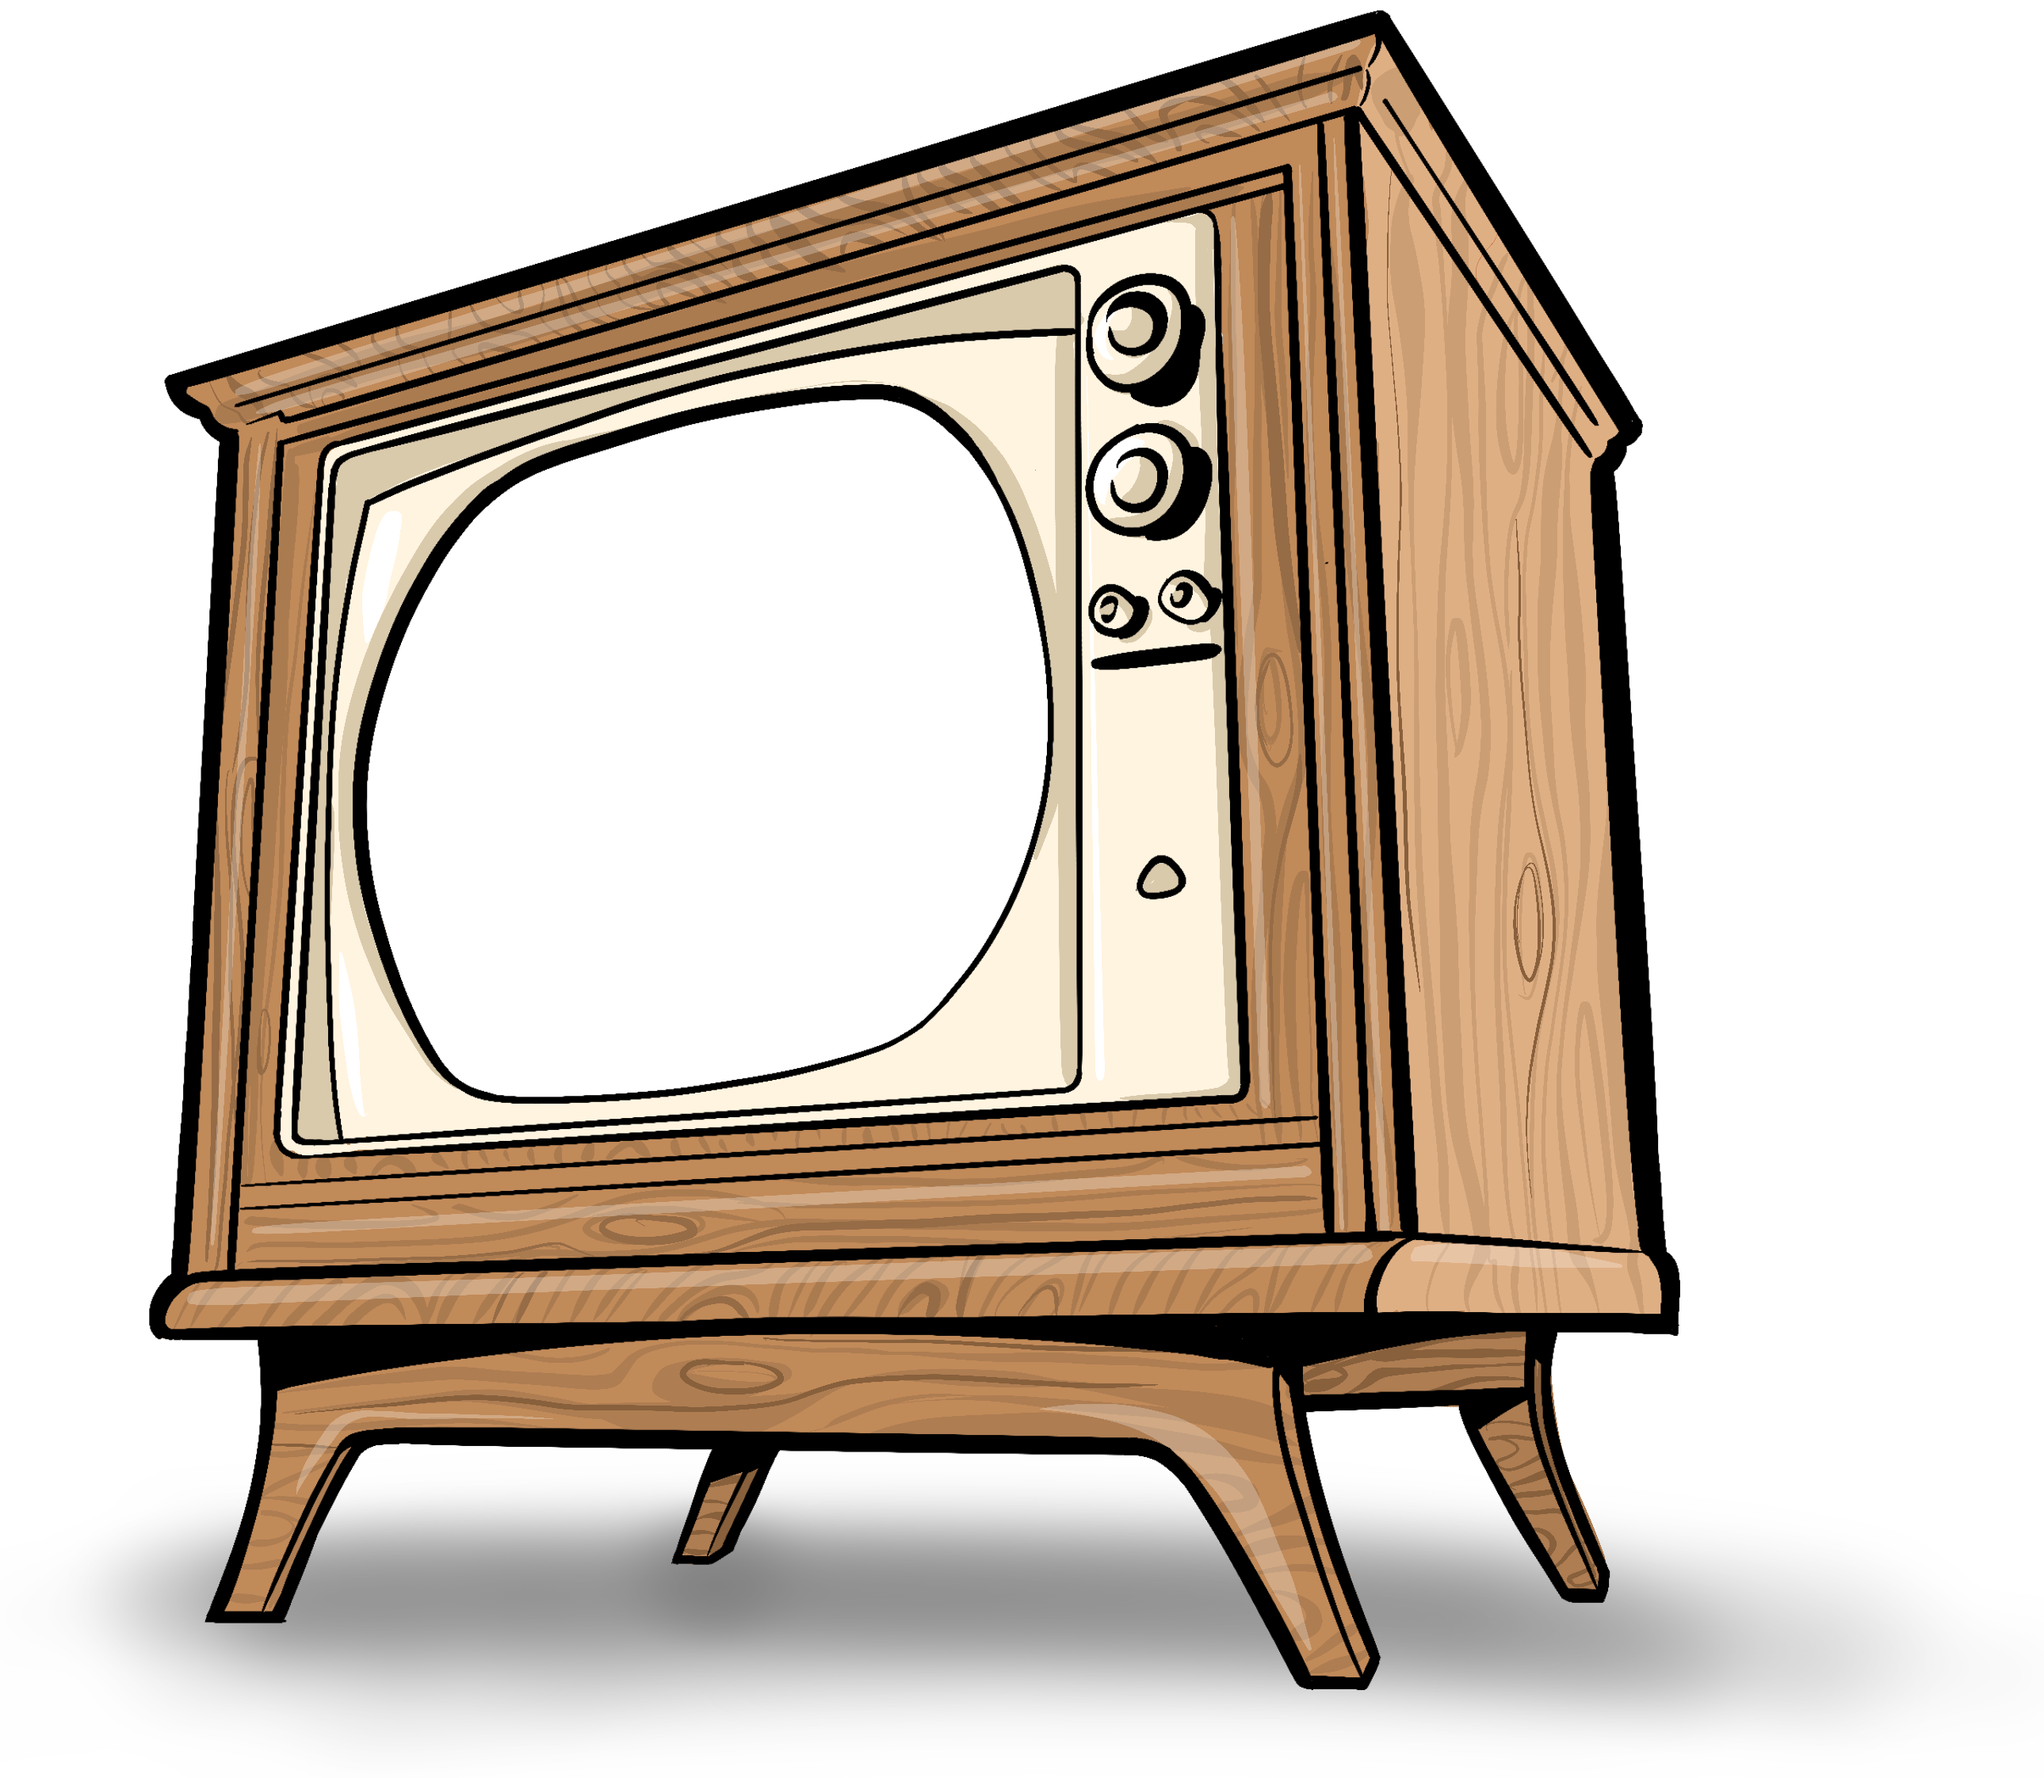
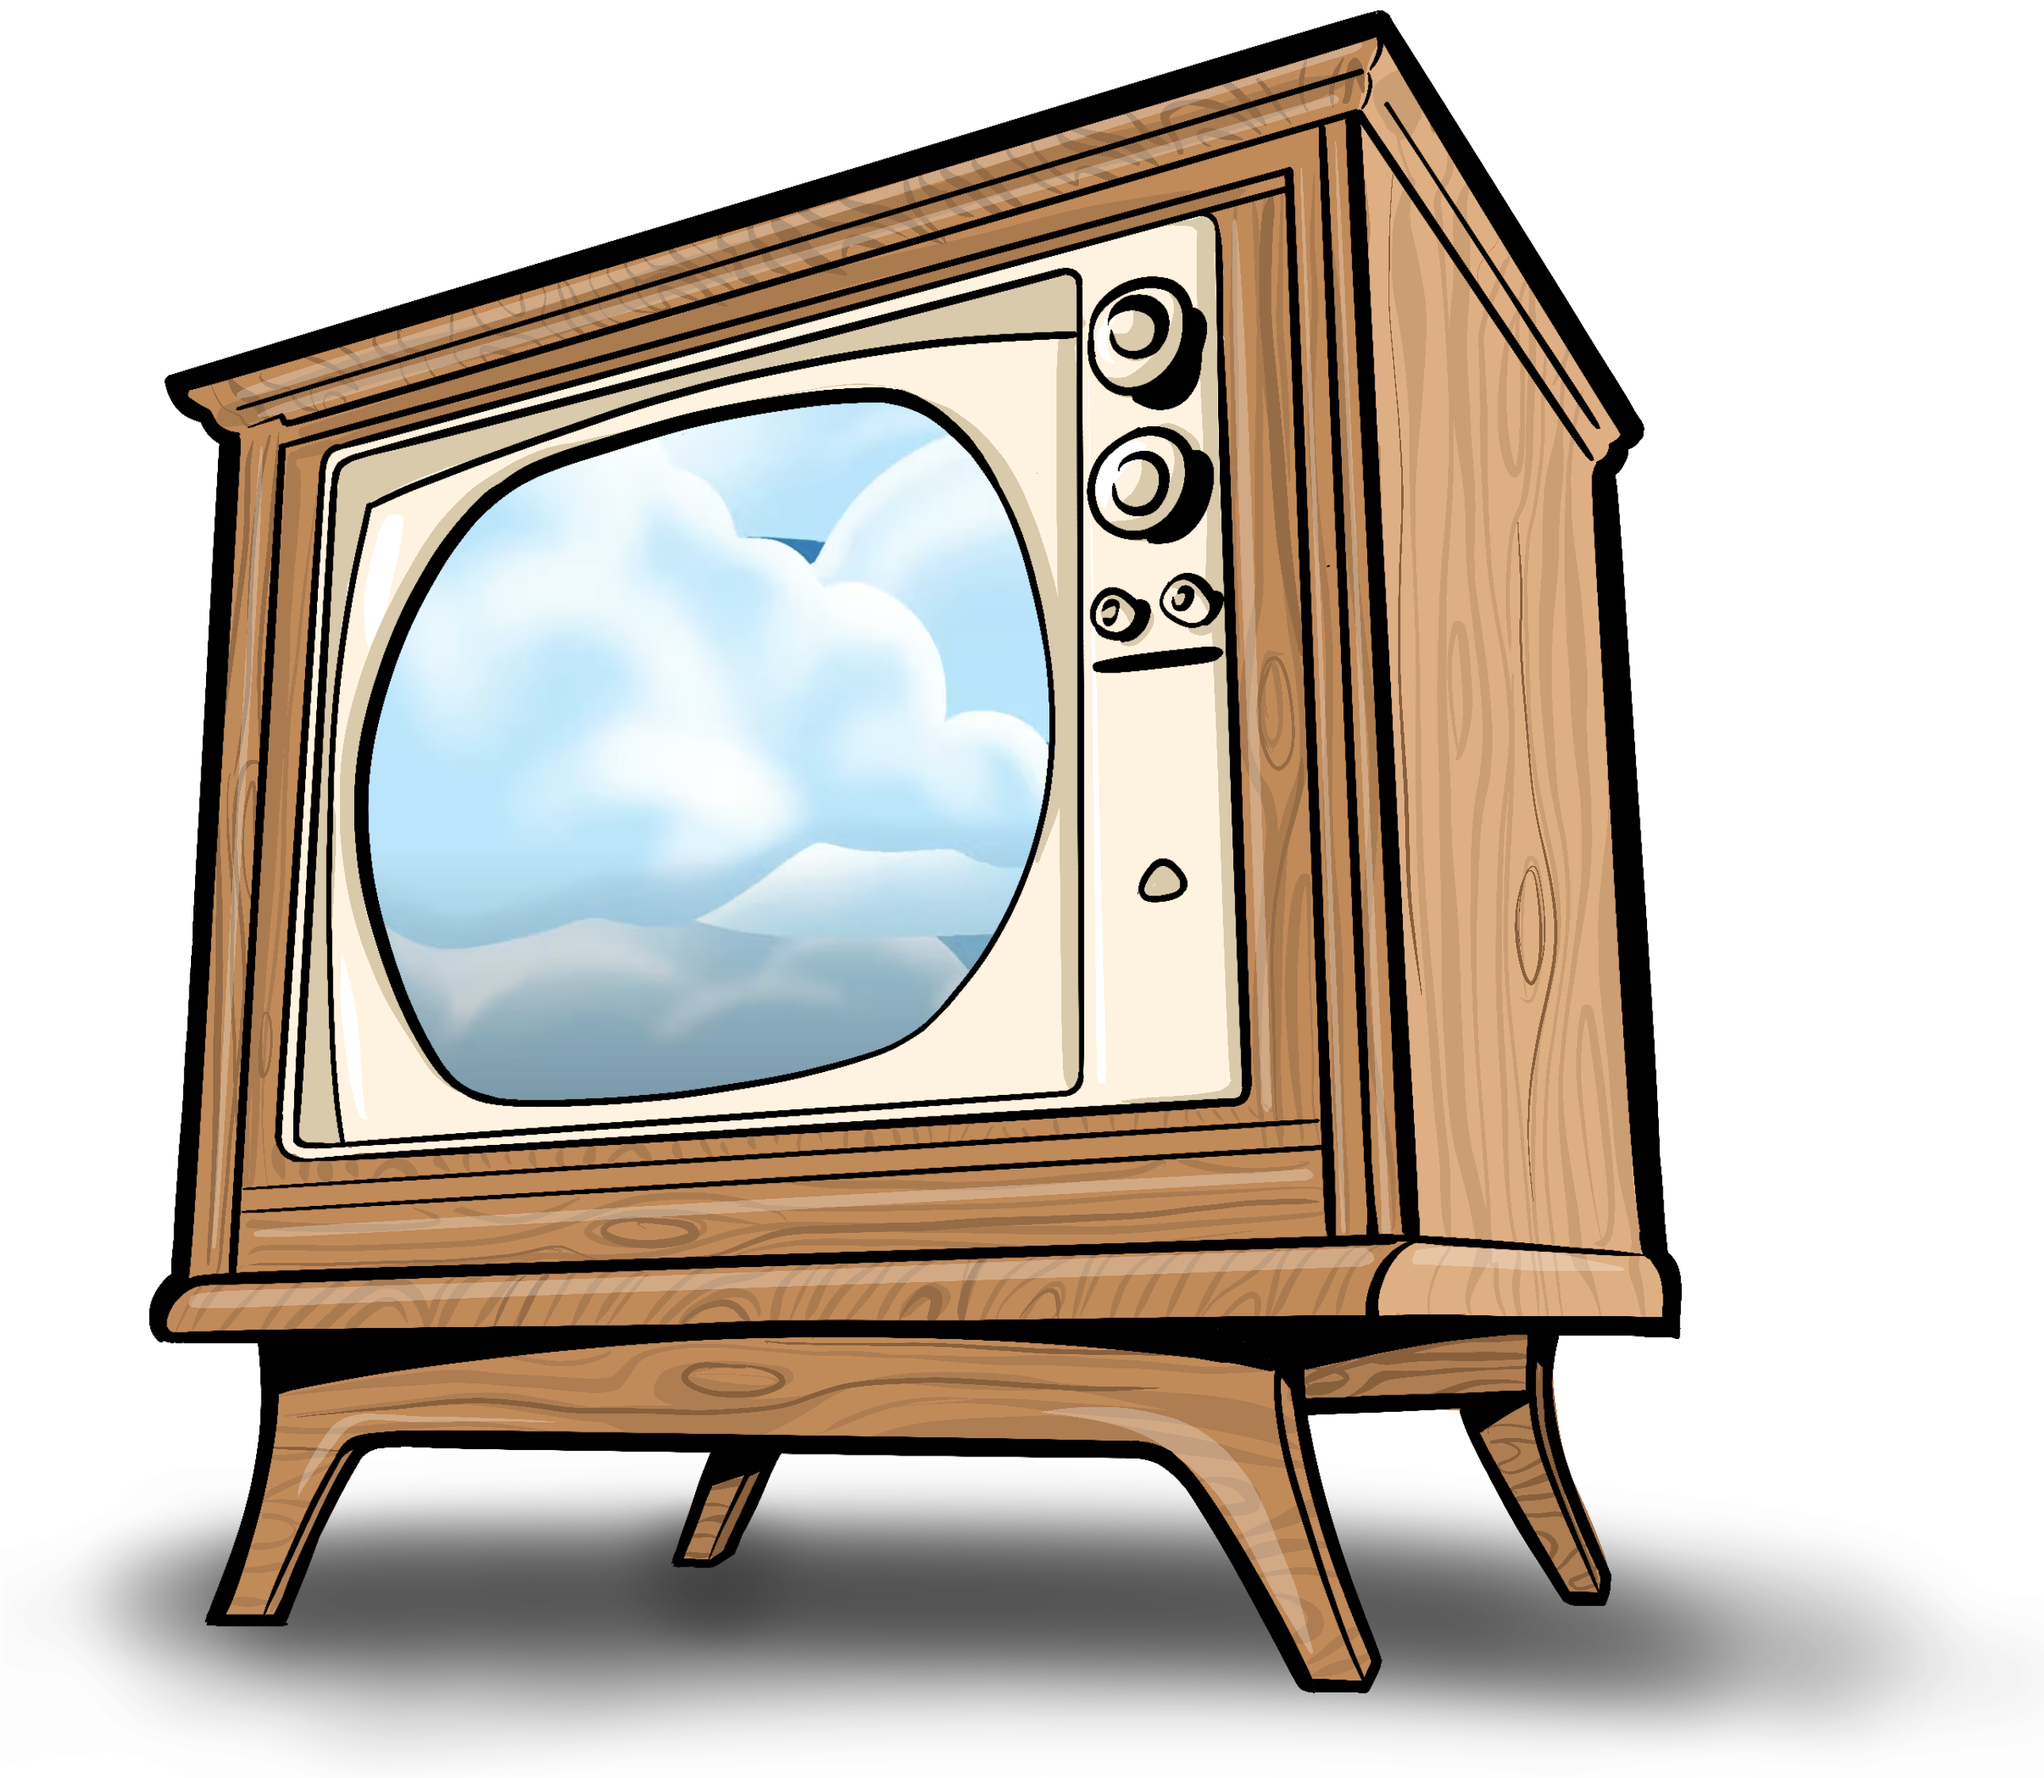
Final coming soon.

Changed region(s): [[0.062, 0.0, 0.9306, 0.967], [0.7445, 0.4991, 0.7755, 0.5615], [0.7755, 0.2496, 0.8065, 0.2807]]

diff --git a/index_video.html b/index_video.html
@@ -1,0 +1,31 @@
+<!DOCTYPE html>
+<html lang="en">
+<head>
+    <meta charset="utf-8">
+    <meta name="viewport" content="width=device-width, initial-scale=1">
+    <title>Come In and Find Out</title>
+    <link rel="stylesheet" href="style/style.css">
+</head>
+<body>
+<div class="vertical">
+    <img src="img/title.png" width="280px" alt="Come In and Find Out"/>
+    <br/>
+    <br/>
+    <iframe
+            width="640"
+            height="480"
+            src="https://www.youtube.com/embed/F9GDpILySfY?si=ltYjCxLlVIaHGv1W&autoplay=1&mute=1&rel=0"
+            allow="autoplay; encrypted-media">
+    </iframe>
+</div>
+<br/>
+<br/>
+<br/>
+<div class="horizontal">
+    <a href="index.html">
+        <img src="img/remote_green.png" width="120px" alt="Remote" onmouseover="this.src='img/remote_red.png';" onmouseout="this.src='img/remote_green.png';"/>
+    </a>
+    <img src="img/coming_soon.png" width="360px" alt="Coming Soon"/>
+</div>
+</body>
+</html>

diff --git a/index_video_mobile.html b/index_video_mobile.html
@@ -1,0 +1,31 @@
+<!DOCTYPE html>
+<html lang="en">
+<head>
+    <meta charset="utf-8">
+    <meta name="viewport" content="width=device-width, initial-scale=1">
+    <title>Come In and Find Out</title>
+    <link rel="stylesheet" href="style/style.css">
+</head>
+<body>
+<div class="vertical">
+    <img src="img/title.png" width="280px" alt="Come In and Find Out"/>
+    <br/>
+    <br/>
+    <iframe
+            width="640"
+            height="480"
+            src="https://www.youtube.com/embed/F9GDpILySfY?si=ltYjCxLlVIaHGv1W&autoplay=1&mute=1&rel=0"
+            allow="autoplay; encrypted-media">
+    </iframe>
+</div>
+<br/>
+<br/>
+<br/>
+<div class="horizontal">
+    <a href="index.html">
+        <img src="img/remote_green.png" width="120px" alt="Remote" onmouseover="this.src='img/remote_red.png';" onmouseout="this.src='img/remote_green.png';"/>
+    </a>
+    <img src="img/coming_soon.png" width="360px" alt="Coming Soon"/>
+</div>
+</body>
+</html>

diff --git a/index.html b/index.html
@@ -7,7 +7,17 @@
     <link rel="stylesheet" href="style/style.css">
 </head>
 <body>
-<img src="img/static.png" width="720px" class="center" alt="Come In and Find Out"/>
+<div class="vertical">
+    <img src="img/title.png" width="280px" alt="Come In and Find Out"/>
+    <br/>
+    <img src="img/tv.png" width="640px" alt="TV"/>
+</div>
+<div class="horizontal">
+    <a href="index_video.html">
+        <img src="img/remote_red.png" width="120px" alt="Remote" onmouseover="this.src='img/remote_green.png';" onmouseout="this.src='img/remote_red.png';"/>
+    </a>
+    <img src="img/coming_soon.png" width="280px" alt="Coming Soon"/>
+</div>
 <script>
     function isMobileDevice() {
         return /Mobi|Android/i.test(navigator.userAgent);

diff --git a/index_mobile.html b/index_mobile.html
@@ -7,6 +7,16 @@
     <link rel="stylesheet" href="style/style.css">
 </head>
 <body>
-<img src="img/static.png" width="360px" class="center" alt="Come In and Find Out"/>
+<div class="vertical">
+    <img src="img/title.png" width="180px" alt="Come In and Find Out"/>
+    <br/>
+    <img src="img/tv.png" width="360px" alt="TV"/>
+</div>
+<div class="horizontal">
+    <a href="index_video_mobile.html">
+        <img src="img/remote_red.png" width="80px" alt="Remote" onmouseover="this.src='img/remote_green.png';" onmouseout="this.src='img/remote_red.png';"/>
+    </a>
+    <img src="img/coming_soon.png" width="180px" alt="Coming Soon"/>
+</div>
 </body>
 </html>

diff --git a/style/style.css b/style/style.css
@@ -4,12 +4,22 @@ body {
     -webkit-user-select: none;
     -moz-user-select: none;
     -ms-user-select: none;
+
+    display: flex;
+    flex-direction: column;
+    align-items: center;
+    justify-content: center;
+    font-family: Arial, sans-serif;
 }
 
-.center {
-    display: block;
-    margin-left: auto;
-    margin-right: auto;
-    pointer-events: none;
-    overflow: hidden;
+.vertical {
+    display: flex;
+    flex-direction: column;
+    align-items: center;
+}
+
+.horizontal {
+    display: flex;
+    justify-content: center;
+    align-items: center;
 }
